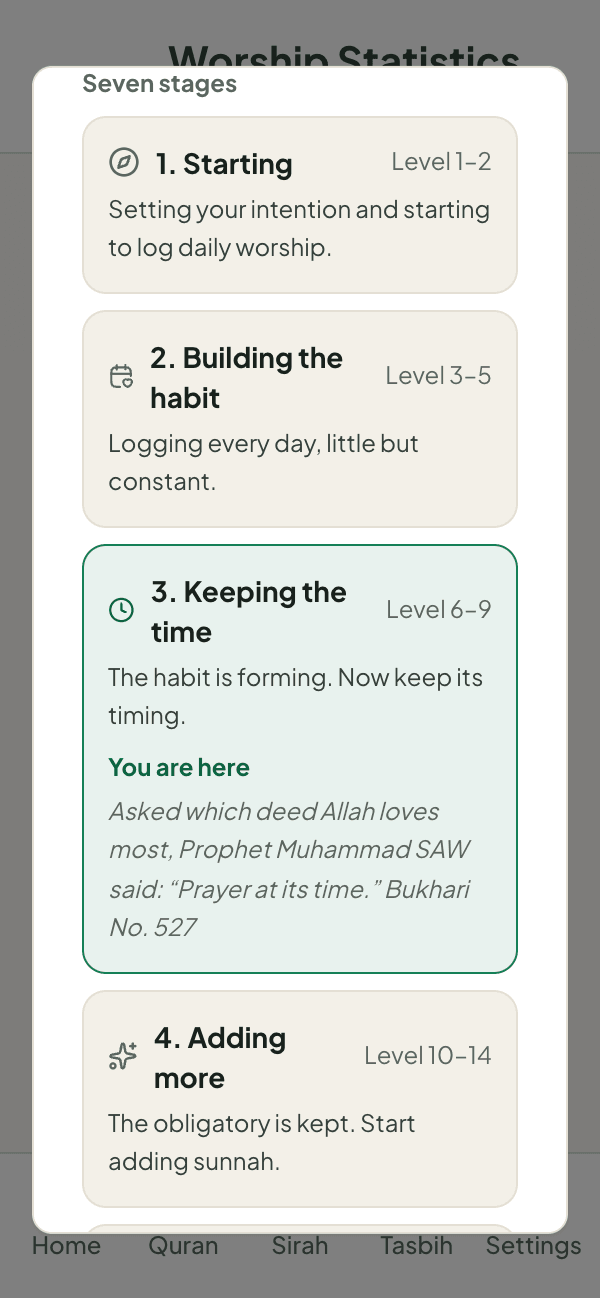
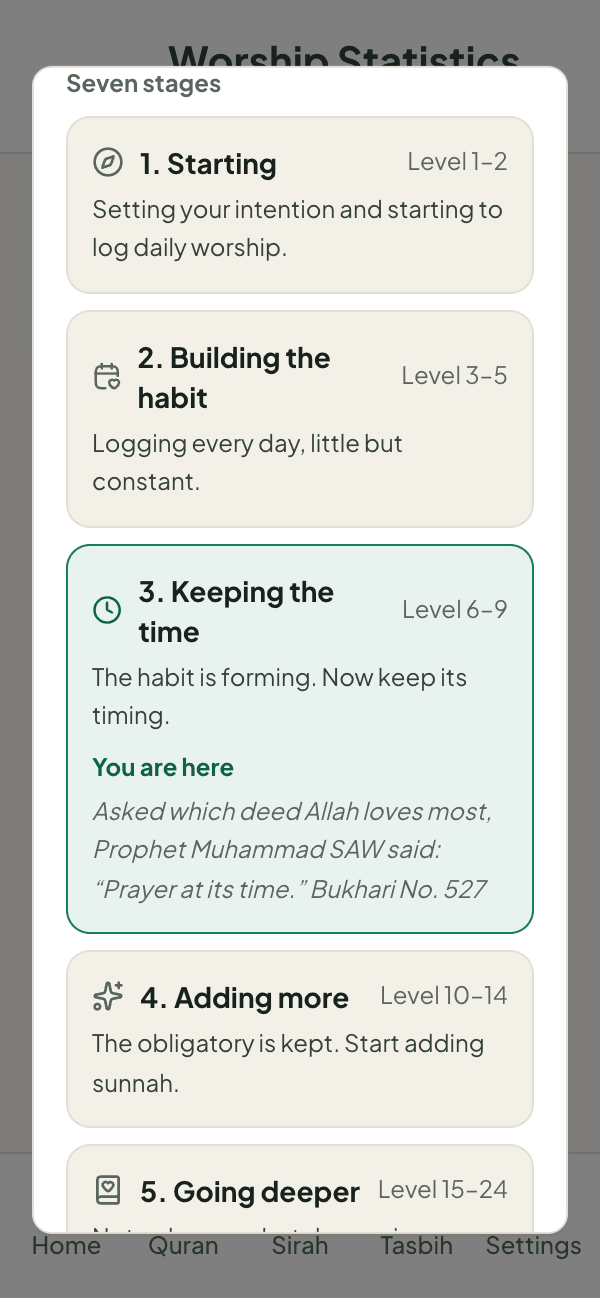
docs: retake README screenshots after the small-phone fixes
Taken from a local build of this branch at 300 px wide, since the
fixes are not deployed yet.

diff --git a/README.id.md b/README.id.md
@@ -101,7 +101,7 @@ Nawaetu dimulai dari pengguna berbahasa Indonesia dan Inggris, pasar mayoritas M
 
 ## ✨ Produk
 
-Tangkapan layar asli dari aplikasi di [nawaetu.com](https://nawaetu.com) (ukuran HP, 27 November 2026, dengan profil demo). Tersedia lima tema; Daylight adalah tema bawaan dan Emerald adalah tema gelap.
+Tangkapan layar asli dari aplikasi di [nawaetu.com](https://nawaetu.com) (HP kecil, lebar 300 px, 27 November 2026, dengan profil demo). Tersedia lima tema; Daylight adalah tema bawaan dan Emerald adalah tema gelap.
 
 | Beranda: niat dan jadwal sholat | Al-Qur'an dengan audio | Sirah dalam tiga format |
 | :---: | :---: | :---: |

diff --git a/README.md b/README.md
@@ -101,7 +101,7 @@ Nawaetu starts with Indonesian and English speakers, the largest Muslim-majority
 
 ## Product
 
-Real screenshots of the live app at [nawaetu.com](https://nawaetu.com) (phone size, 27 November 2026, with a demo profile). Five themes are available; Daylight is the default and Emerald is the dark theme.
+Real screenshots of the app at [nawaetu.com](https://nawaetu.com) (small phone, 300 px wide, 27 November 2026, with a demo profile). Five themes are available; Daylight is the default and Emerald is the dark theme.
 
 | Home: intention and prayer times | Quran with audio | Sirah in three formats |
 | :---: | :---: | :---: |
